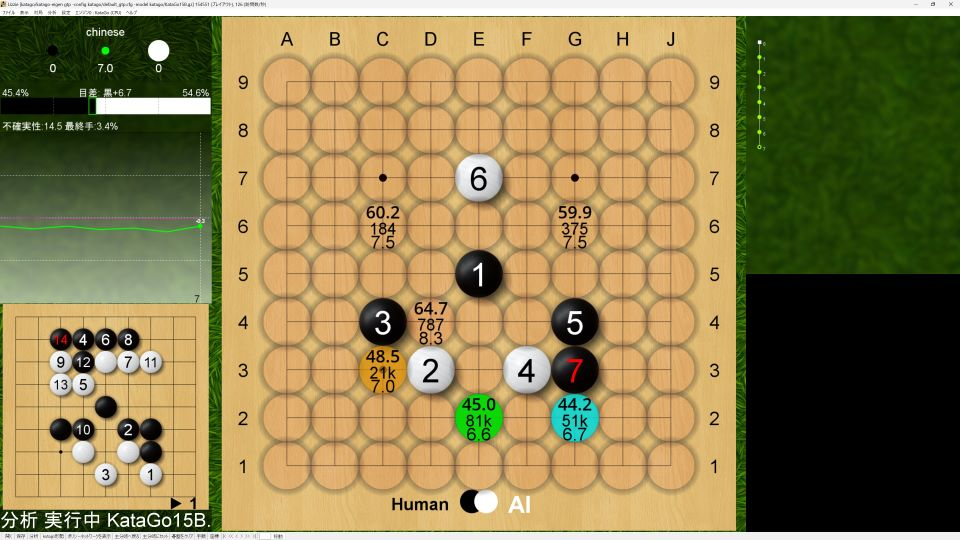
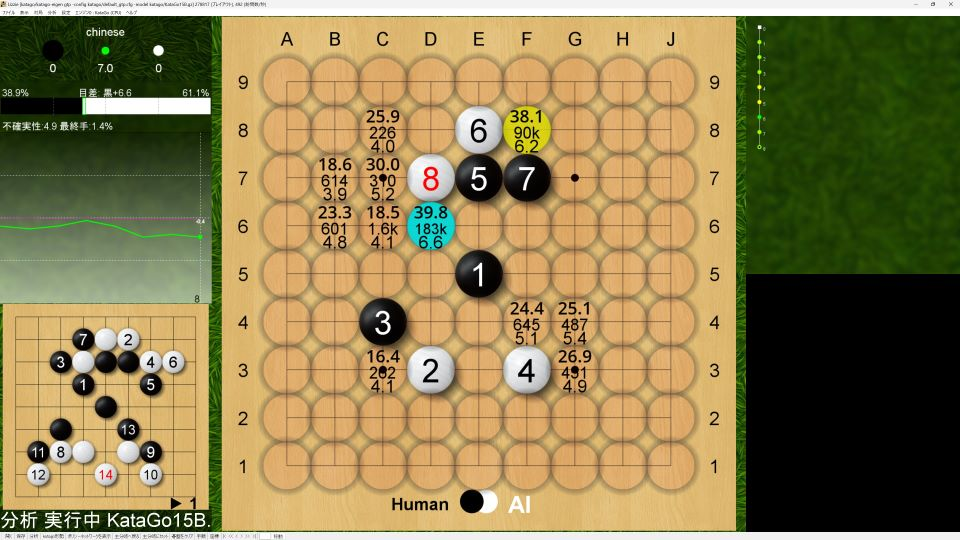
save

diff --git a/9roban.md b/9roban.md
@@ -84,7 +84,11 @@
 
 ![振り子定石-図3-2](img/furiko_1-003-2.jpg)
 
-黒５と打つと白が少しだけ打ちやすいようである。
+左上の打ち込みを牽制して１路左に寄せることも考えられるが、白６と打たれると、左上と右上が見合い。
+
+![振り子定石-図3-3](img/furiko_1-003-3.jpg)
+
+黒５と打っても白が少しだけ打ちやすいようである。
 
 ![振り子定石-図4](img/furiko_1-004.jpg)
 
